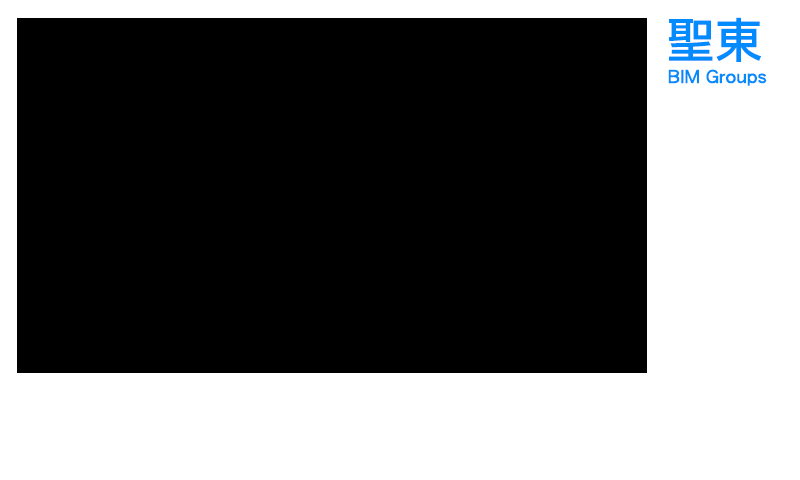
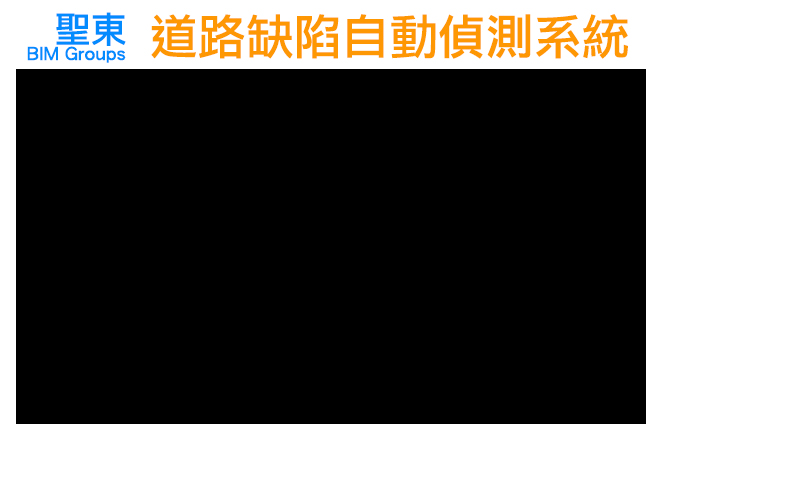
Add files via upload

Changed region(s): [[0.0, 0.75, 0.8125, 0.9062], [0.0, 0.0, 0.9688, 0.1875]]

diff --git a/carCam/road_detector.py b/carCam/road_detector.py
@@ -16,22 +16,28 @@ from urllib.request import urlopen
 #--------------------------------------------------
 gm_apikey = 'AIzaSyBPxuoRArkJBsCVa_e0DCEzo9UuPP-r_Bk'
 
-video_type = 1  # 0--> cam_id  1--> video_file_play
+video_type = 0  # 0--> cam_id  1--> video_file_play
 cam_id = 0
-cam_size  = (960, 540)  #(1920, 1080)
+cam_size  = (1920, 1080)  #(1920, 1080)
+
 rotatePIC = 0
-frameRate = 10.0
+frameRate = 5.0
 video_file_play = "1550799908.6317935.avi"
 gps_file_play = "1550799908.6317935.gps"
+video_upload_size = (960, 540)
+video_yolo_size = (960, 540)
 
-write_video_out = False  #output video or not
+write_video_out = True  #output video or not
+video_out_type = 2  #0--> original video, 1--> obj detected video, 2--> desktop video
 video_out = "output\\"  #write video to this folder
 defect_out = "defect"  #write defect image to this folder for upload
+ 
 
 comPort = "COM5"   #PC的TTL2USB port
 baudRate = 4800
 
-desktop_frame_size = (610,344)
+desktop_size = (800, 480) 
+desktop_frame_size = (610,344)  # video size on the desktop bg.
 #--------------------------------------------------
 
 yolo = opencvYOLO(modeltype="yolov3-tiny", \
@@ -55,7 +61,8 @@ def getGPS(frameid = 0):
         ynDATA = False
         dataE1, dataE2 = 0.0, 0.0
         dataN1, dataN2 = 0.0, 0.0
-    
+        gpsE , gpsN = 0.0, 0.0   
+		
         try:
             while(serial.inWaiting()):
                 out = str(serial.readline().decode('utf-8'))
@@ -66,7 +73,6 @@ def getGPS(frameid = 0):
         if out != '':
             gpsdata = out.split(",")
             print(out)
-
 
             if(gpsdata[0] == "$GPRMC"):
                 dataE = gpsdata[5]
@@ -79,16 +85,16 @@ def getGPS(frameid = 0):
                     dataN1, dataN2 = float(dataN[:2]), float(dataN[2:])
                     gpsN = dataN1 + dataN2/60
                 
-        str_gpsE = str(gpsE)
-        str_gpsN = str(gpsN)
+        #str_gpsE = str(gpsE)
+        #str_gpsN = str(gpsN)
 
     else:
         ynDATA = False
         for i in range(0, len(gps_frames)-1):
             if( frameID>=int(gps_frames[i][0]) and frameID<int(gps_frames[i+1][0])):
-                print(frameID, gps_frames[i][0], gps_frames[i][1])
+                print(frameID, gps_frames[i][0], gps_frames[i][1], gps_frames[i][2])
 
-                gpsN, gpsE = gps_frames[i][1].split(",")
+                gpsN, gpsE = gps_frames[i][2].split(",")
                 ynDATA = True
 
         #now_loc = (float(gpsE), float(gpsN))
@@ -111,7 +117,13 @@ def getGPS(frameid = 0):
 
 def signal_handler(sig, frame):
     print('You pressed Ctrl+C!')
-    fo.write(str(frameID) + "|" + dataN + "," + dataE + "\n" )
+    now = datetime.datetime.now()
+    time_data = "{}{}{}{}{}{}".format(now.year,str(now.month).zfill(2),str(now.day).zfill(2),\
+        str(now.hour).zfill(2),str(now.minute).zfill(2),str(now.second).zfill(2))
+    fo.write(str(frameID) + "|" + time_data + "|" + str(dataN) + "," + str(dataE) + "\n" )
+    fo.close()
+    if(write_video_out is True):
+        out.release()
     sys.exit(0)
 	
 def log_defect(img, img_defect, gps_data):
@@ -126,18 +138,30 @@ def log_defect(img, img_defect, gps_data):
     cv2.imwrite(defect_out + "\\" + filename_org, img)	
 
 def desktop_bg(img, gps, txt_display):
+    img = imutils.resize(img, width=desktop_frame_size[0], height=desktop_frame_size[1])
     now = datetime.datetime.now()
-    display_time = "{}年{}月{}日 {}:{}:{}".format(now.year,now.month,now.day,str(now.hour).zfill(2),str(now.minute).zfill(2),str(now.second).zfill(2))
+    display_time1 = "{}年{}月{}日".format(now.year,now.month,now.day)
+    display_time2 = "{}:{}:{}".format(str(now.hour).zfill(2),str(now.minute).zfill(2),str(now.second).zfill(2))
 	
     bg = bg_fresh.copy()
     img_shape = img.shape
     dataN, dataE = gps[0], gps[1]
-    bg[23:23+img_shape[0], 25:25+img_shape[1]] = img
-    bg = printText(display_time, bg, color=(0,0,0,0), size=0.65, pos=(20,380), type="Chinese")
-    cv2.putText(bg, "GPS:"+str(dataN)+","+str(dataE), (390,400), cv2.FONT_HERSHEY_COMPLEX, 0.65, (0,255,0), 2)
+    bg[75:75+img_shape[0], 23:23+img_shape[1]] = img
+
+    #Date
+    bg = printText(display_time1, bg, color=(0,0,0,0), size=0.40, pos=(660,85), type="Chinese")
+    #Time
+    #cv2.putText(bg, display_time2, (680,125), cv2.FONT_HERSHEY_COMPLEX, 0.65, (0,0,0), 1)
+    bg = printText(display_time2, bg, color=(0,0,0,0), size=0.45, pos=(680,105), type="Chinese")
+
+    #GPS
+    #cv2.putText(bg, "N: "+str(dataN), (660,175), cv2.FONT_HERSHEY_COMPLEX, 0.66, (0,255,0), 2)
+    #cv2.putText(bg, "E:"+str(dataE), (660,195), cv2.FONT_HERSHEY_COMPLEX, 0.66, (0,255,0), 2)
+    bg = printText("N: "+str(dataN), bg, color=(0,255,0,0), size=0.70, pos=(660,175), type="English")
+    bg = printText("E:"+str(dataE), bg, color=(0,255,0,0), size=0.70, pos=(660,200), type="English")
     
     if(len(txt_display)>0):
-        bg = printText(txt_display, bg, color=(0,0,255,0), size=0.8, pos=(40,420), type="Chinese")
+        bg = printText(txt_display, bg, color=(0,0,255,0), size=0.8, pos=(80,430), type="Chinese")
 	
     return bg
 
@@ -165,9 +189,9 @@ if(video_type == 1):
     gps_file = open(gps_file_play, 'r', encoding='UTF-8')
     
     for line in gps_file.readlines():
-        gps_frame_id, gps_data = line.split("|")
+        gps_frame_id, time_data, gps_data = line.split("|")
         if(int(gps_frame_id)>=0):
-            gps_frames.append( (int(gps_frame_id), gps_data) )
+            gps_frames.append( (int(gps_frame_id), float(time_data), gps_data) )
 
 if __name__ == "__main__":
 
@@ -191,18 +215,26 @@ if __name__ == "__main__":
     if(cam.working() is True):
         
         if(video_out!=""):
-            filename = video_out+str(time.time())
             (width, height) = cam.camRealSize()
-            if(write_video_out is True):            
+            if(write_video_out is True):
+                now = datetime.datetime.now()
+                video_output_file = "{}年{}月{}日{}點{}分{}秒".format(now.year,now.month,now.day,str(now.hour).zfill(2),str(now.minute).zfill(2),str(now.second).zfill(2))            
+                #video_output_file = "{}{}{}{}{}{}".format(now.year,now.month,now.day,str(now.hour).zfill(2),str(now.minute).zfill(2),str(now.second).zfill(2)) 
                 fourcc = cv2.VideoWriter_fourcc(*'MJPG')
-                out = cv2.VideoWriter(video_out+str(time.time())+".avi",fourcc, frameRate, (int(width),int(height)))
-                fo = open(filename + ".gps", "w")
+                if(video_out_type==0):
+                    out = cv2.VideoWriter(video_out+video_output_file+".avi",fourcc, frameRate, (cam_size[0],cam_size[1]))
+                elif(video_out_type==1):
+                    out = cv2.VideoWriter(video_out+video_output_file+".avi",fourcc, frameRate, (video_yolo_size[0],video_yolo_size[1]))
+                elif(video_out_type==2):
+                    out = cv2.VideoWriter(video_out+video_output_file+".avi",fourcc, frameRate, (desktop_size[0],desktop_size[1]))
+					
+                fo = open(video_out+video_output_file+".gps", "w")
                 print("Video size is ", (width, height))
 
         while True:
             hasFrame, frame = cam.takepic(rotate=rotatePIC, vflip=False, hflip=False, resize=None, savePath=None)
-            frame = imutils.resize(frame, width=desktop_frame_size[0])
-            frame_org = frame.copy()			
+            frame_org = frame.copy()
+            frame = imutils.resize(frame, width=video_yolo_size[0], height=video_yolo_size[1])
 
             ynDATA, tmpE, tmpN = getGPS()
             if(ynDATA == True):
@@ -217,14 +249,28 @@ if __name__ == "__main__":
             txt_display = ""
             if(yolo.objCounts>0 and ynDATA is True):
                 defect_lists = yolo.listLabels()
-                log_defect(frame_org, frame, (dataN, dataE))
+                log_defect(frame_upload, frame, (dataN, dataE))
                 txt_display = "發現疑似道路缺陷！"
-            
-            cv2.imshow("Frame", desktop_bg(frame, (dataN, dataE), txt_display) )
+
+            frame_desktop = desktop_bg(frame, (dataN, dataE), txt_display)
+            cv2.imshow("Frame", frame_desktop )
+            frame_upload = 	imutils.resize(frame, width=video_upload_size[0], height=video_upload_size[1])	
+			
             if(write_video_out is True):
-                out.write(frame)
+                if(video_out_type==0):
+                    frame_output = cv2.resize(frame_org,cam_size,interpolation=cv2.INTER_CUBIC)
+                elif(video_out_type==1):
+                    frame_output = cv2.resize(frame,video_yolo_size,interpolation=cv2.INTER_CUBIC)
+                elif(video_out_type==2):
+                    frame_output = cv2.resize(frame_desktop,desktop_size,interpolation=cv2.INTER_CUBIC)
+					
+                print("SHAPE:", frame_output.shape)
+                out.write(frame_output)
                 if(lastE != dataE or lastN!=dataN):
-                    fo.write(str(frameID) + "|" + str(dataN) + "," + str(dataE) + "\n" )
+                    now = datetime.datetime.now()
+                    time_data = "{}{}{}{}{}{}".format(now.year,str(now.month).zfill(2),str(now.day).zfill(2),\
+                        str(now.hour).zfill(2),str(now.minute).zfill(2),str(now.second).zfill(2))
+                    fo.write(str(frameID) + "|" + time_data + "|" + str(dataN) + "," + str(dataE) + "\n" )
 
             lastE, lastN = dataE, dataN
             frameID += 1

diff --git a/carCam/recorder.py b/carCam/recorder.py
@@ -1,7 +1,7 @@
 #!/usr/bin/python
 # -*- coding: UTF-8 -*-
 
-import time
+import time, datetime
 import cv2
 import numpy as np
 import imutils
@@ -9,7 +9,7 @@ from libRoad import webCam
 import serial
 import signal, sys
 
-video_out = "output/"
+video_out = "output\\"
 webcam_size  = (1920, 1080)
 rotatePIC = 0
 frameRate = 10.0
@@ -19,8 +19,10 @@ baudRate = 4800
 def getGPS():
     out = ''
     ynDATA = False
-    dataE1, dataE2, dataE3, dataE4 = 0, 0, 0, 0
-    dataN1, dataN2, dataN3, dataN4 = 0, 0, 0, 0
+    dataE1, dataE2 = 0.0, 0.0
+    dataN1, dataN2 = 0.0, 0.0
+    gpsE, gpsN = 0.0, 0.0
+    str_gpsE, str_gpsN = "", ""
 	
     try:
         while(serial.inWaiting()):
@@ -34,24 +36,29 @@ def getGPS():
         print(out)
 
 
-        if(gpsdata[0] == "$GPGGA"):
-            dataE = gpsdata[4]
-            dataN = gpsdata[2]
+        if(gpsdata[0] == "$GPRMC"):
+            dataE = gpsdata[5]
+            dataN = gpsdata[3]
             if(len(dataE)>=10):
-                dataE1, dataE2, dataE3, dataE4 = dataE[:3], dataE[3:5], dataE[6:8], dataE[8:10]
+                dataE1, dataE2 = float(dataE[:3]), float(dataE[3:])
+                gpsE = round(dataE1 + dataE2/60, 4)
                 ynDATA = True
             if(len(dataN)>=9):
-                dataN1, dataN2, dataN3, dataN4 = dataN[:2], dataN[2:4], dataN[5:7], dataN[7:9]
+                dataN1, dataN2 = float(dataN[:2]), float(dataN[2:])
+                gpsN = round(dataN1 + dataN2/60, 4)
 				
-    gpsE = "E {}-{}-{}-{}".format(dataE1, dataE2, dataE3, dataE4)
-    gpsN = "N {}-{}-{}-{}".format(dataN1, dataN2, dataN3, dataN4)
+    str_gpsE = str(gpsE)
+    str_gpsN = str(gpsN)
     print(gpsE, gpsN)
 	
-    return ynDATA, gpsE, gpsN
+    return ynDATA, str_gpsE, str_gpsN
 
 def signal_handler(sig, frame):
     print('You pressed Ctrl+C!')
-    fo.write(str(frameID) + "|" + dataE + "/" + dataN + "\n" )
+    now = datetime.datetime.now()
+    time_data = "{}{}{}{}{}{}".format(now.year,str(now.month).zfill(2),str(now.day).zfill(2),\
+        str(now.hour).zfill(2),str(now.minute).zfill(2),str(now.second).zfill(2))
+    fo.write(str(frameID) + "|" + time_data + "|" + dataN + "," + dataE + "\n" )
     sys.exit(0)
 	
 if __name__ == "__main__":
@@ -63,17 +70,21 @@ if __name__ == "__main__":
     dataE = dataN = "0"
     frameID = 0
     lastE, lastN = "", ""
-    if(cam.working() is True):
-        
+    if(cam.working() is True):        
         if(video_out!=""):
-            filename = video_out+str(time.time())
+            now = datetime.datetime.now()
+            filename = "{}年{}月{}日{}點{}分{}秒".format(now.year,now.month,now.day,str(now.hour).zfill(2),str(now.minute).zfill(2),str(now.second).zfill(2))
             (width, height) = cam.camRealSize()
             fourcc = cv2.VideoWriter_fourcc(*'MJPG')
-            out = cv2.VideoWriter(video_out+str(time.time())+".avi",fourcc, frameRate, (int(width),int(height)))
-            fo = open(filename + ".gps", "w")
+            out = cv2.VideoWriter(video_out+filename+".avi",fourcc, frameRate, (int(width),int(height)))
+            fo = open(video_out+filename + ".gps", "w")
         print("Video size is ", (width, height))
         while True:
             hasFrame, frame = cam.takepic(rotate=rotatePIC, vflip=False, hflip=False, resize=None, savePath=None)
+            now = datetime.datetime.now()
+            time_data = "{}{}{}{}{}{}".format(now.year,str(now.month).zfill(2),str(now.day).zfill(2),\
+                str(now.hour).zfill(2),str(now.minute).zfill(2),str(now.second).zfill(2))
+			
             ynDATA, tmpE, tmpN = getGPS()
             if(ynDATA == True):
                 dataE, dataN = tmpE, tmpN
@@ -83,12 +94,12 @@ if __name__ == "__main__":
                 cv2.waitKey(3000)
                 break
 
-            cv2.putText(frame, dataE+" / "+dataN, (280,60), cv2.FONT_HERSHEY_COMPLEX, 1.2, (0,0,0), 2)
+            #cv2.putText(frame, dataN+" , "+dataE, (280,60), cv2.FONT_HERSHEY_COMPLEX, 1.2, (0,0,0), 2)
             cv2.imshow("Frame", imutils.resize(frame, width=850) )
             if(video_out!=""):
                 out.write(frame)
                 if(lastE != dataE or lastN!=dataN):
-                    fo.write(str(frameID) + "|" + dataE + "/" + dataN + "\n" )
+                    fo.write(str(frameID) + "|" + time_data + "|" + dataN + "," + dataE + "\n" )
 
                 lastE, lastN = dataE, dataN
                 frameID += 1
